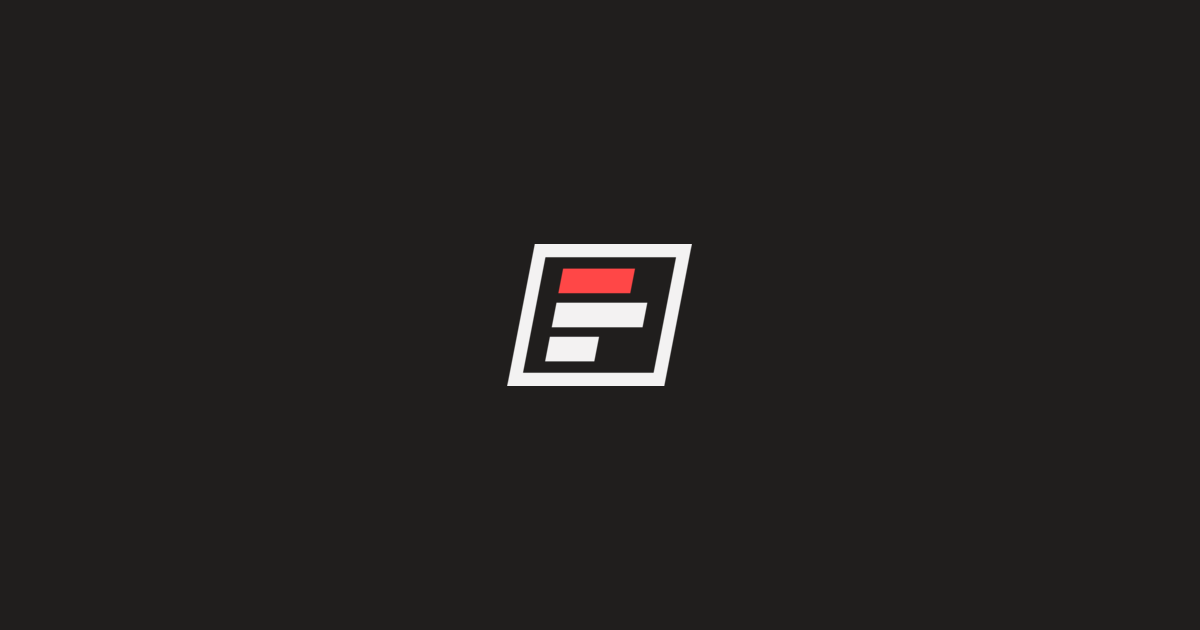
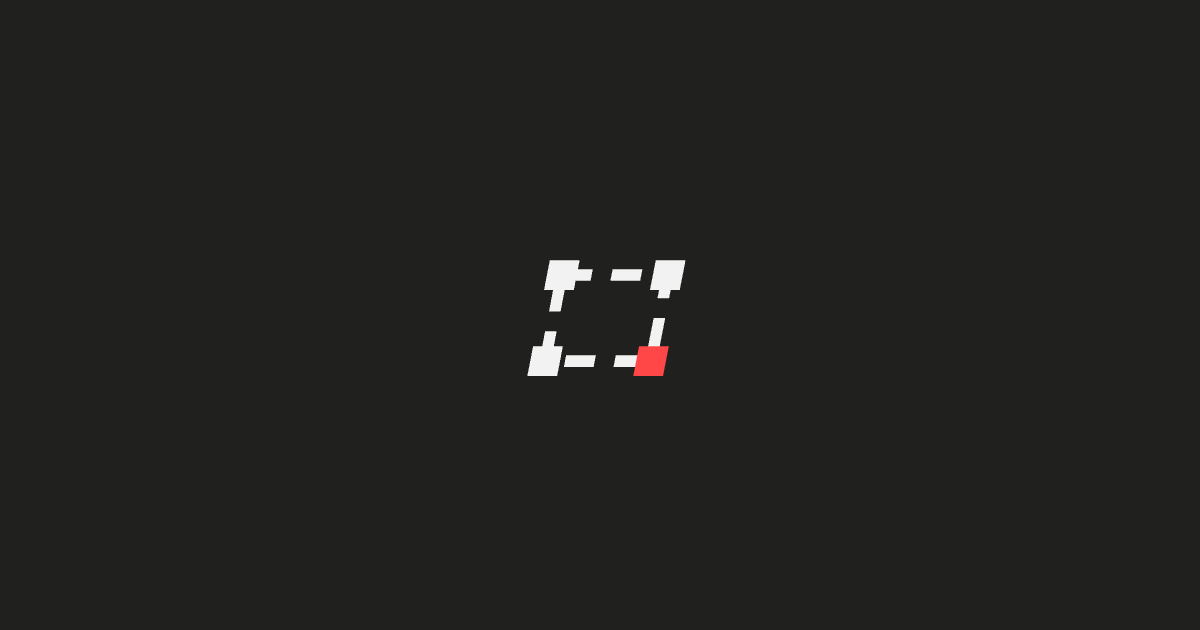
fix(tuner): the app was wearing the retired docs mark everywhere

Changed region(s): [[0.4008, 0.3619, 0.5858, 0.6333]]

diff --git a/src/components/brand/BrandLockup.tsx b/src/components/brand/BrandLockup.tsx
@@ -15,7 +15,14 @@ import {
   WORDMARK_SHIFT_PATH,
 } from '@canshift/core'
 import type { ReactElement } from 'react'
-import { TUNER_MARK_BAR_PATH, TUNER_MARK_SCREEN_PATH, TUNER_MARK_STROKE } from './tuner-mark'
+import {
+  TUNER_MARK_ACCENT_CORNER_PATH,
+  TUNER_MARK_CORNERS_PATH,
+  TUNER_MARK_CORNER_STROKE,
+  TUNER_MARK_FRAME_DASH,
+  TUNER_MARK_FRAME_PATH,
+  TUNER_MARK_FRAME_STROKE,
+} from './tuner-mark'
 
 export type BrandMark = 'monogram' | 'tuner'
 
@@ -35,8 +42,24 @@ const MonogramMark = () => (
 
 const TunerMark = () => (
   <>
-    <path d={TUNER_MARK_SCREEN_PATH} stroke="currentColor" strokeWidth={TUNER_MARK_STROKE} />
-    <path d={TUNER_MARK_BAR_PATH} stroke={BRAND_ACCENT} strokeWidth={TUNER_MARK_STROKE} />
+    <path
+      d={TUNER_MARK_FRAME_PATH}
+      stroke="currentColor"
+      strokeWidth={TUNER_MARK_FRAME_STROKE}
+      strokeDasharray={TUNER_MARK_FRAME_DASH}
+    />
+    <path
+      d={TUNER_MARK_CORNERS_PATH}
+      stroke="currentColor"
+      strokeWidth={TUNER_MARK_CORNER_STROKE}
+      strokeLinecap="square"
+    />
+    <path
+      d={TUNER_MARK_ACCENT_CORNER_PATH}
+      stroke={BRAND_ACCENT}
+      strokeWidth={TUNER_MARK_CORNER_STROKE}
+      strokeLinecap="square"
+    />
   </>
 )
 

diff --git a/src/components/brand/tuner-mark.ts b/src/components/brand/tuner-mark.ts
@@ -1,3 +1,7 @@
-export const TUNER_MARK_SCREEN_PATH = 'M18 18 H98 V84 H18 Z'
-export const TUNER_MARK_BAR_PATH = 'M34 38 H74'
-export const TUNER_MARK_STROKE = 15
+export const TUNER_MARK_FRAME_PATH = 'M30 26 H94 V78 H30 Z'
+export const TUNER_MARK_FRAME_STROKE = 7
+export const TUNER_MARK_FRAME_DASH = '18 12'
+
+export const TUNER_MARK_CORNERS_PATH = 'M30 26 h0 M94 26 h0 M30 78 h0'
+export const TUNER_MARK_ACCENT_CORNER_PATH = 'M94 78 h0'
+export const TUNER_MARK_CORNER_STROKE = 18
